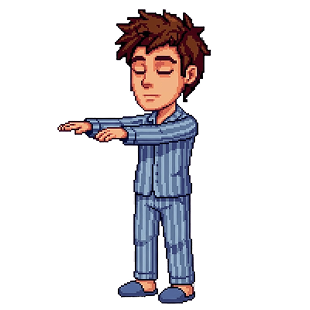
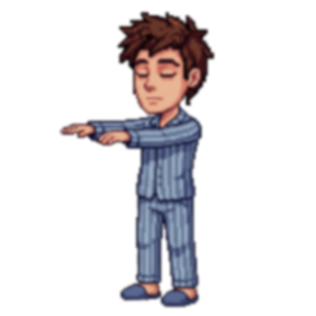
Update Simon sprites to the softened versions
Re-exported with a blur to sit better against the room art. Same
filenames, so adds a ?v=2 suffix to the sprite URLs — without it,
anyone who had already loaded the game would keep being served the
old crisp sprites from cache.

Changed region(s): [[0.1742, 0.029, 0.6968, 0.9871]]

diff --git a/index.html b/index.html
@@ -249,8 +249,10 @@
   ];
   var TITLE_IMG = "assets/sleepwalking-simon-title.JPG";
   var EMPTY_ROOM_IMG = "assets/sleepwalking-simon-empty.png";
-  var SIMON_IDLE_IMG = "assets/simon-idle.png";
-  var SIMON_WALK_IMG = "assets/simon-walk.png";
+  // ?v= bumped whenever a sprite is re-exported under the same filename, so
+  // browsers holding the previous version fetch the new one.
+  var SIMON_IDLE_IMG = "assets/simon-idle.png?v=2";
+  var SIMON_WALK_IMG = "assets/simon-walk.png?v=2";
   var CENTER_POS = {left:53.97, top:80.2};
 
   document.getElementById('titleRoomBg').style.backgroundImage = 'url(' + TITLE_IMG + ')';
